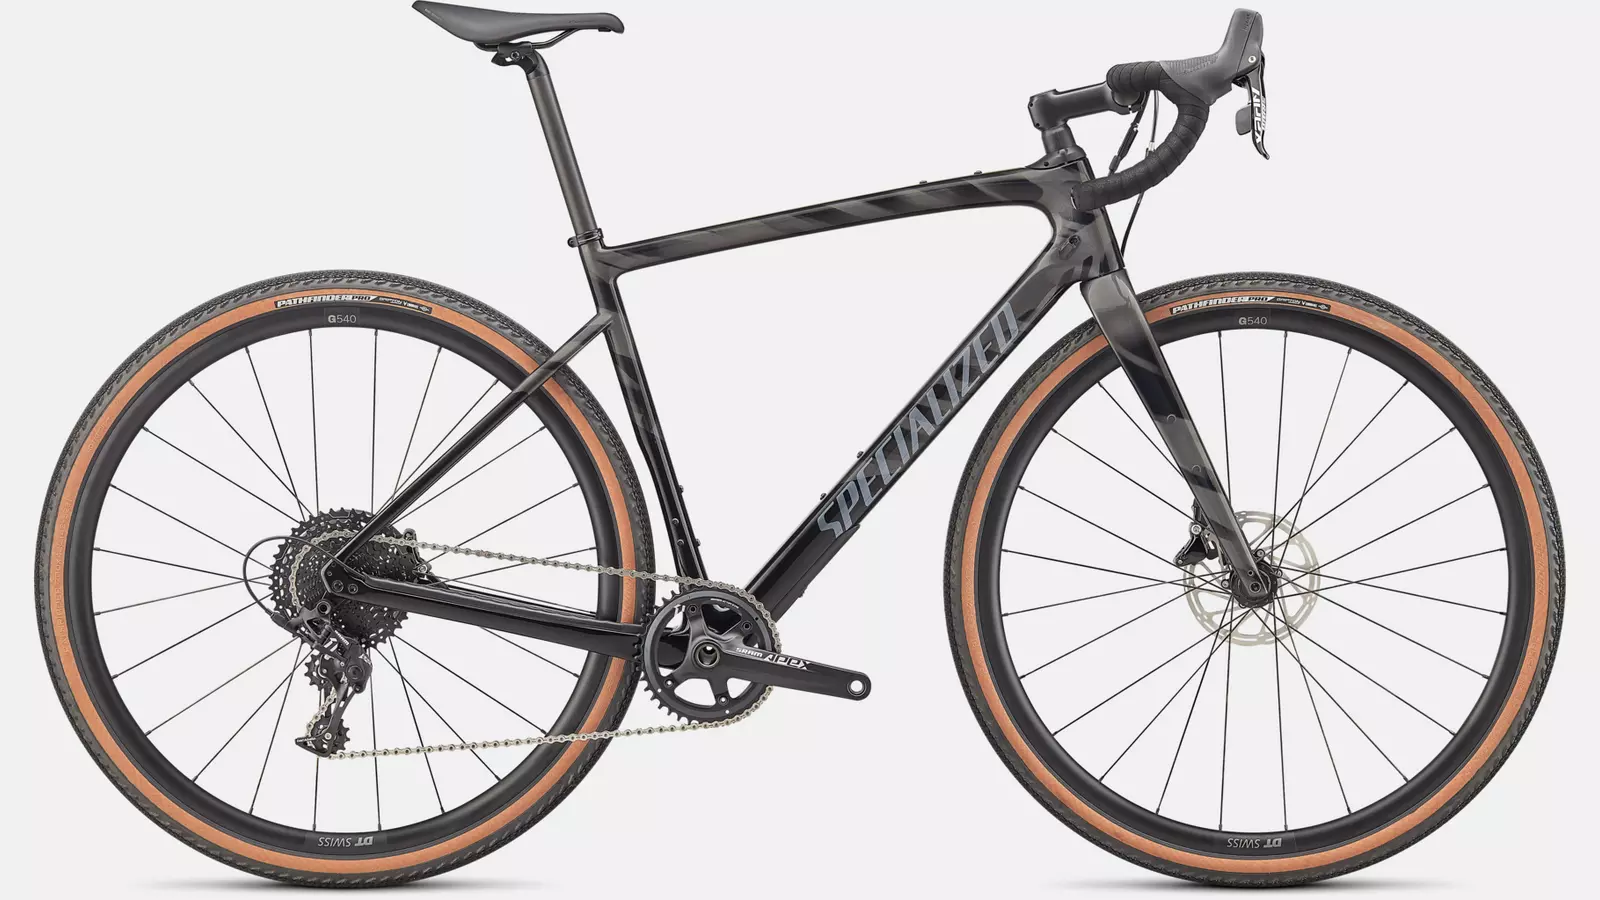
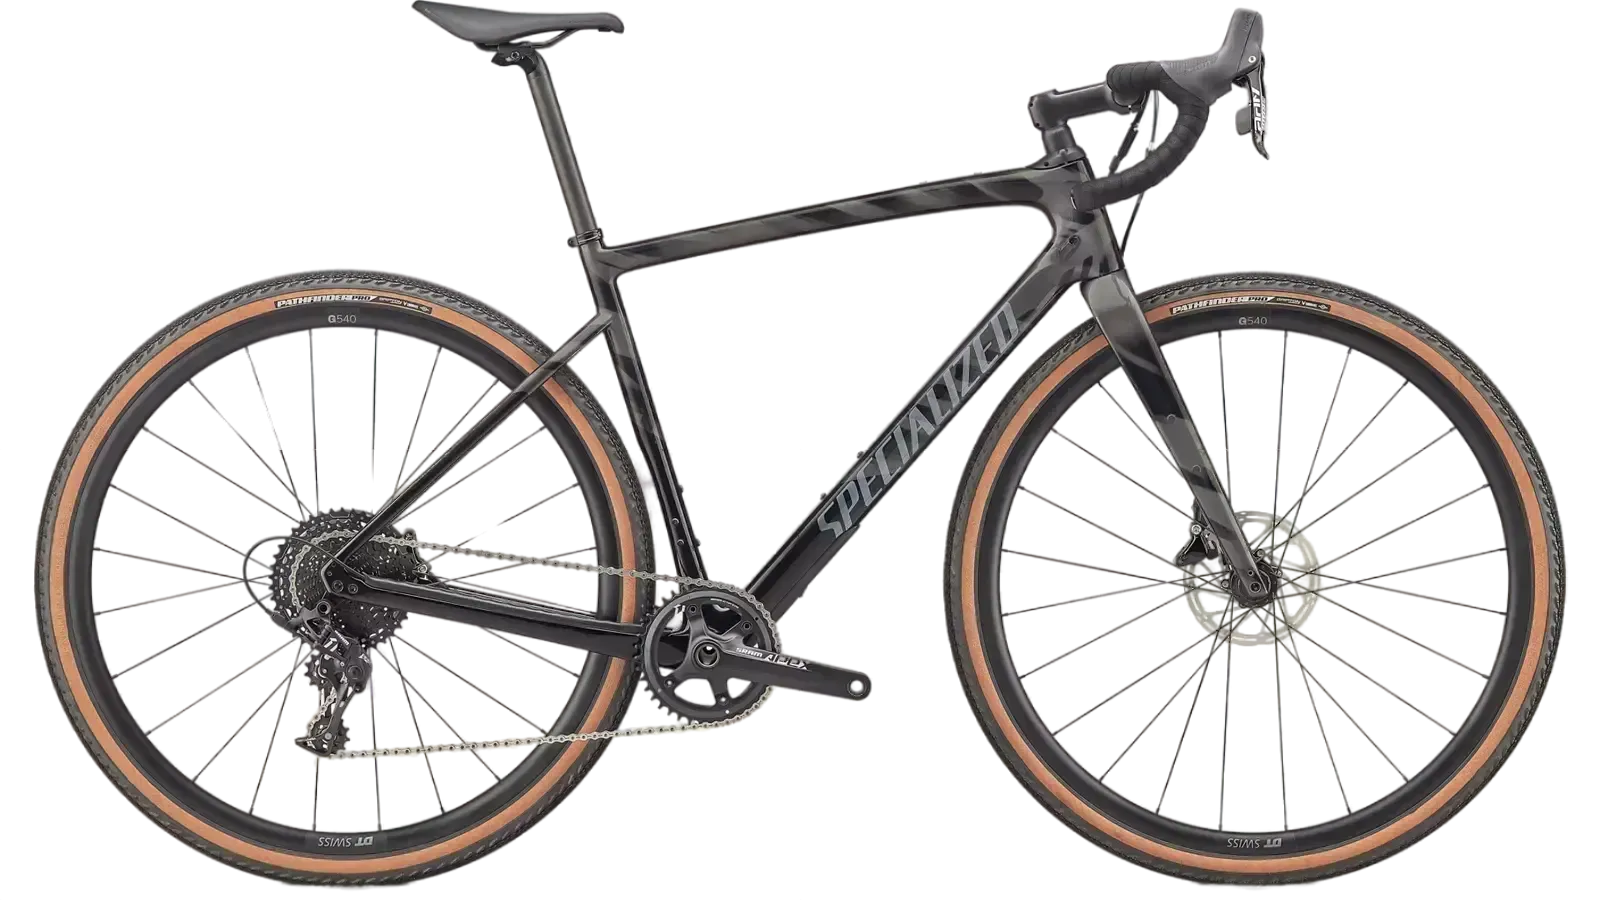
Transformed images to webp

diff --git a/src/data/GravelBikes.js b/src/data/GravelBikes.js
@@ -1,9 +1,9 @@
-import revoltAdvanced1 from '../images/products/gravel-bikes/revolt-advanced-1.jpg';
-import revoltAdvancedPro0 from '../images/products/gravel-bikes/revolt-advanced-pro-0.jpg';
-import revolt2 from '../images/products/gravel-bikes/revolt-2.jpg';
-import checkpointSl5 from '../images/products/gravel-bikes/checkpoint-sl-5.jpg';
-import checkpointSl6eTap from '../images/products/gravel-bikes/checkpoint-sl-6-etap.jpg';
-import checkpointSlr7 from '../images/products/gravel-bikes/checkpoint-slr-7.jpg';
+import revoltAdvanced1 from '../images/products/gravel-bikes/revolt-advanced-1.webp';
+import revoltAdvancedPro0 from '../images/products/gravel-bikes/revolt-advanced-pro-0.webp';
+import revolt2 from '../images/products/gravel-bikes/revolt-2.webp';
+import checkpointSl5 from '../images/products/gravel-bikes/checkpoint-sl-5.webp';
+import checkpointSl6eTap from '../images/products/gravel-bikes/checkpoint-sl-6-etap.webp';
+import checkpointSlr7 from '../images/products/gravel-bikes/checkpoint-slr-7.webp';
 import divergeSportCarbon from '../images/products/gravel-bikes/diverge-sport-carbon.webp';
 import divergeStrPro from '../images/products/gravel-bikes/diverge-str-pro.webp';
 import sWorksDivergeStr from '../images/products/gravel-bikes/s-works-diverge-str.webp';

diff --git a/src/pages/Categories.js b/src/pages/Categories.js
@@ -8,7 +8,7 @@ const Categories = ({className}) => {
             </div>
             <div className="category-options-container">
                 <div className="category-container all-products">
-                    <div className="category-name">
+                    <div className="category-name active">
                         All Products
                     </div>
                 </div>

diff --git a/src/pages/Products.js b/src/pages/Products.js
@@ -43,7 +43,7 @@ const Products = () => {
                 onClick={onCategoryClick}
             />
             <div className="displayed-products-container">
-                <AllProducts products={RoadBikes} />
+                <AllProducts products={AllData} />
             </div>
         </div>
     );

diff --git a/src/styles/products.css b/src/styles/products.css
@@ -125,6 +125,12 @@
     cursor: pointer;
 }
 
+.category-name.active {
+    border: 2px solid rgba(255, 255, 255, .5);;
+    background-color: rgba(0, 0, 0, .2);
+    filter: brightness(400%);
+}
+
 .all-products {
     background-image: url('../images/all-products.jpg');
 }

diff --git a/src/products/AllProducts.js b/src/products/AllProducts.js
@@ -1,5 +1,3 @@
-import AllData from "../data/AllData";
-
 const AllProducts = ({ products }) => {
 
     const formatNumber = (number) => {
